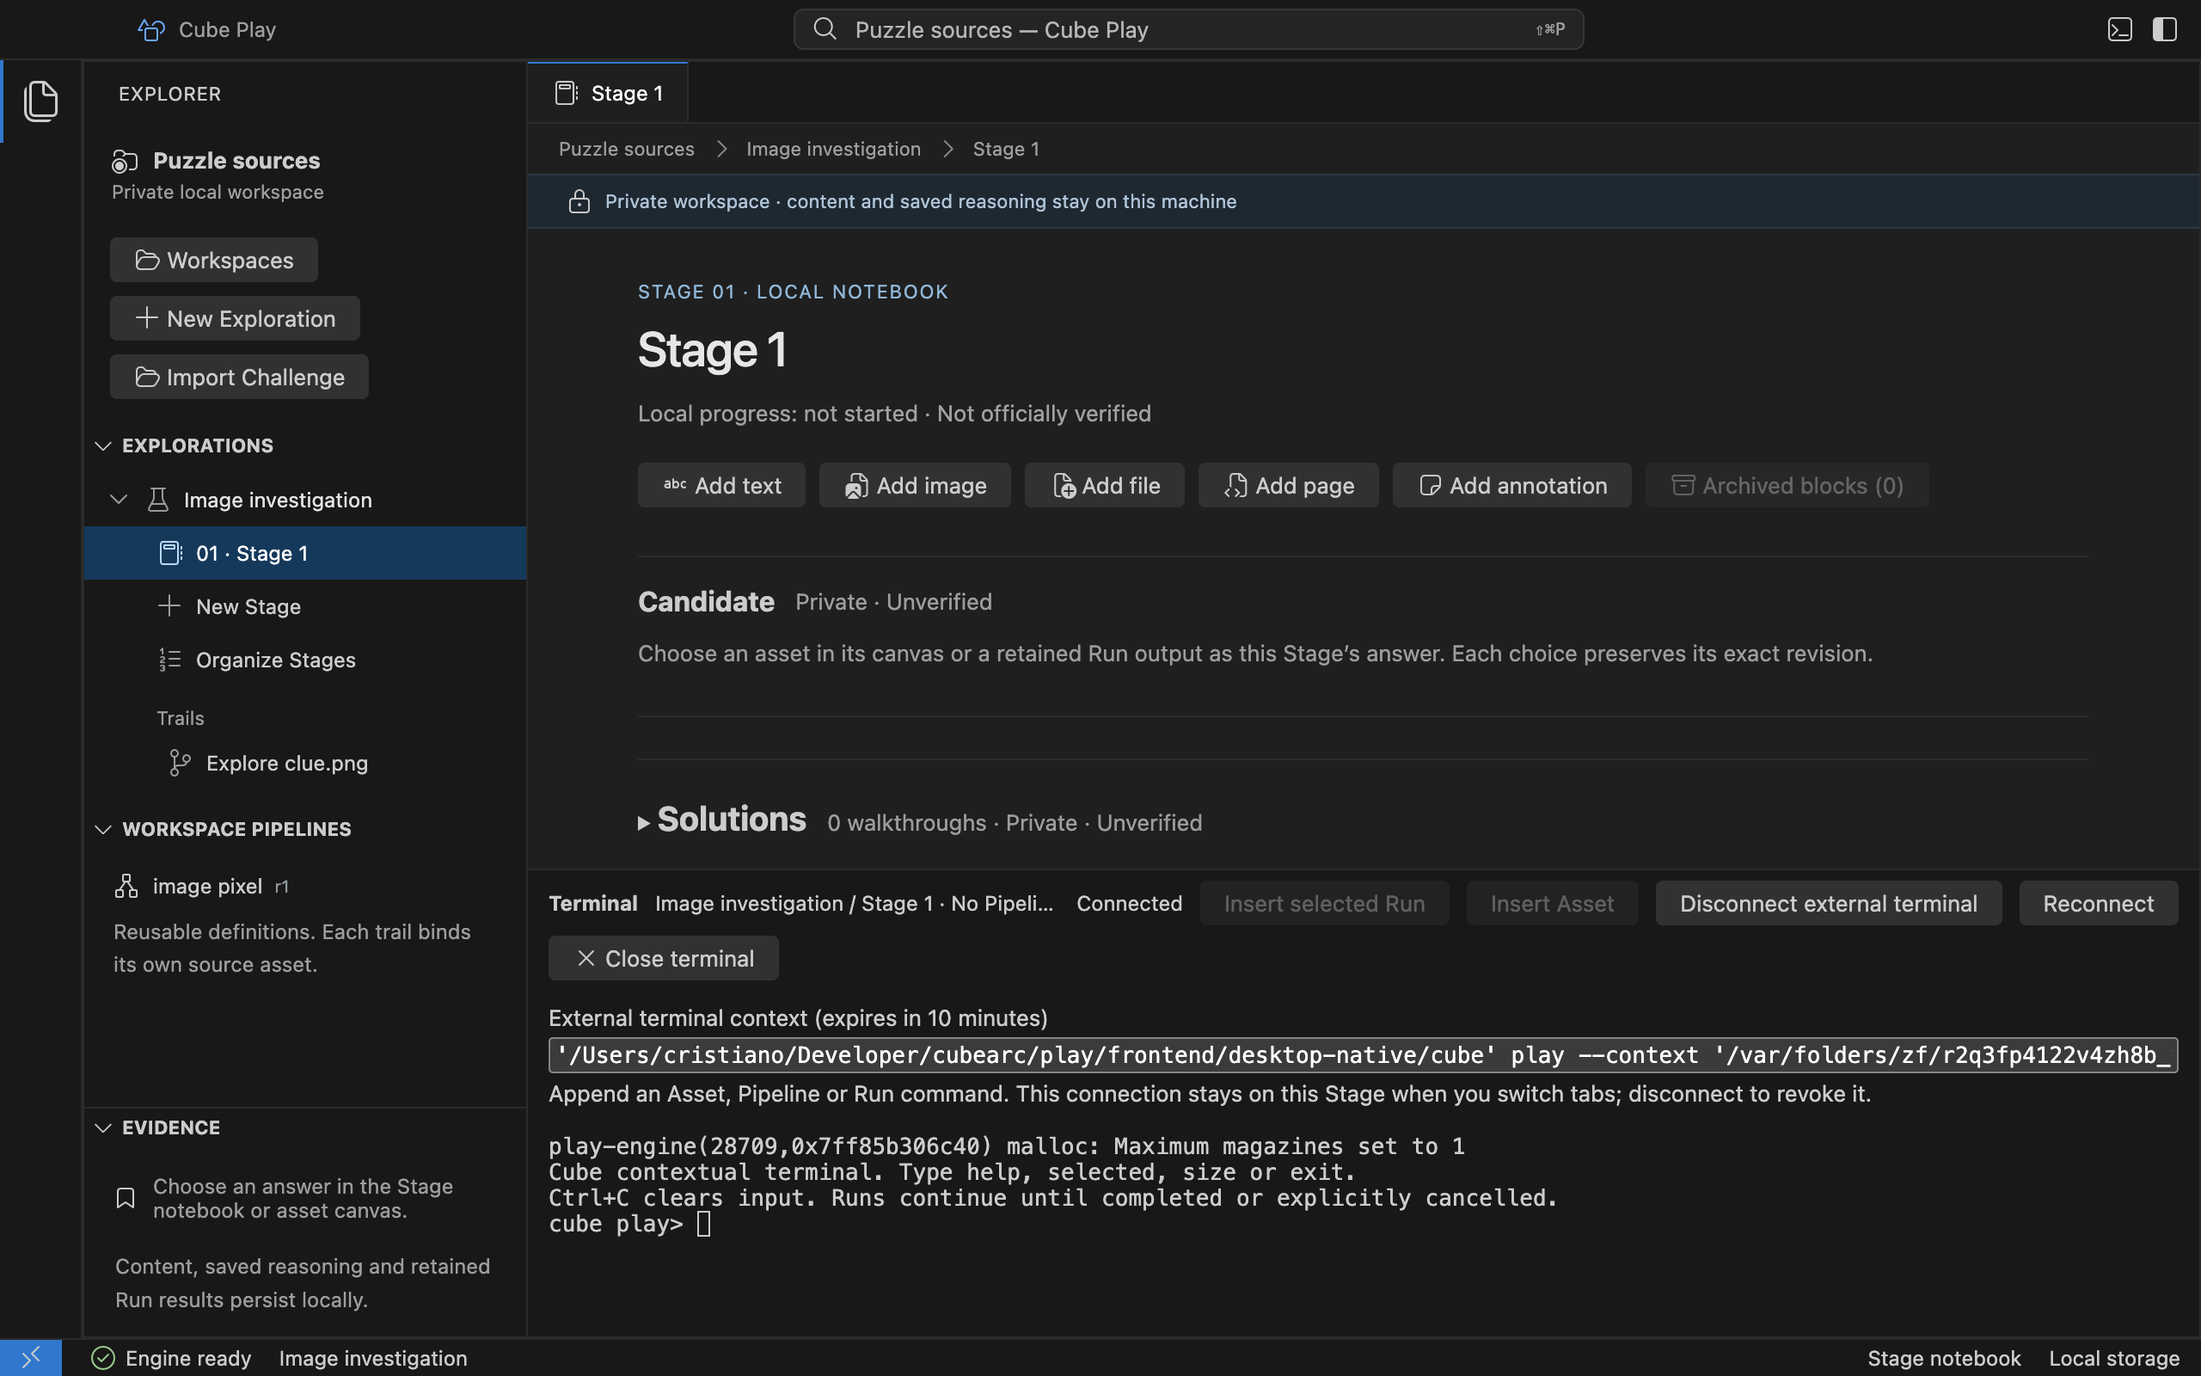
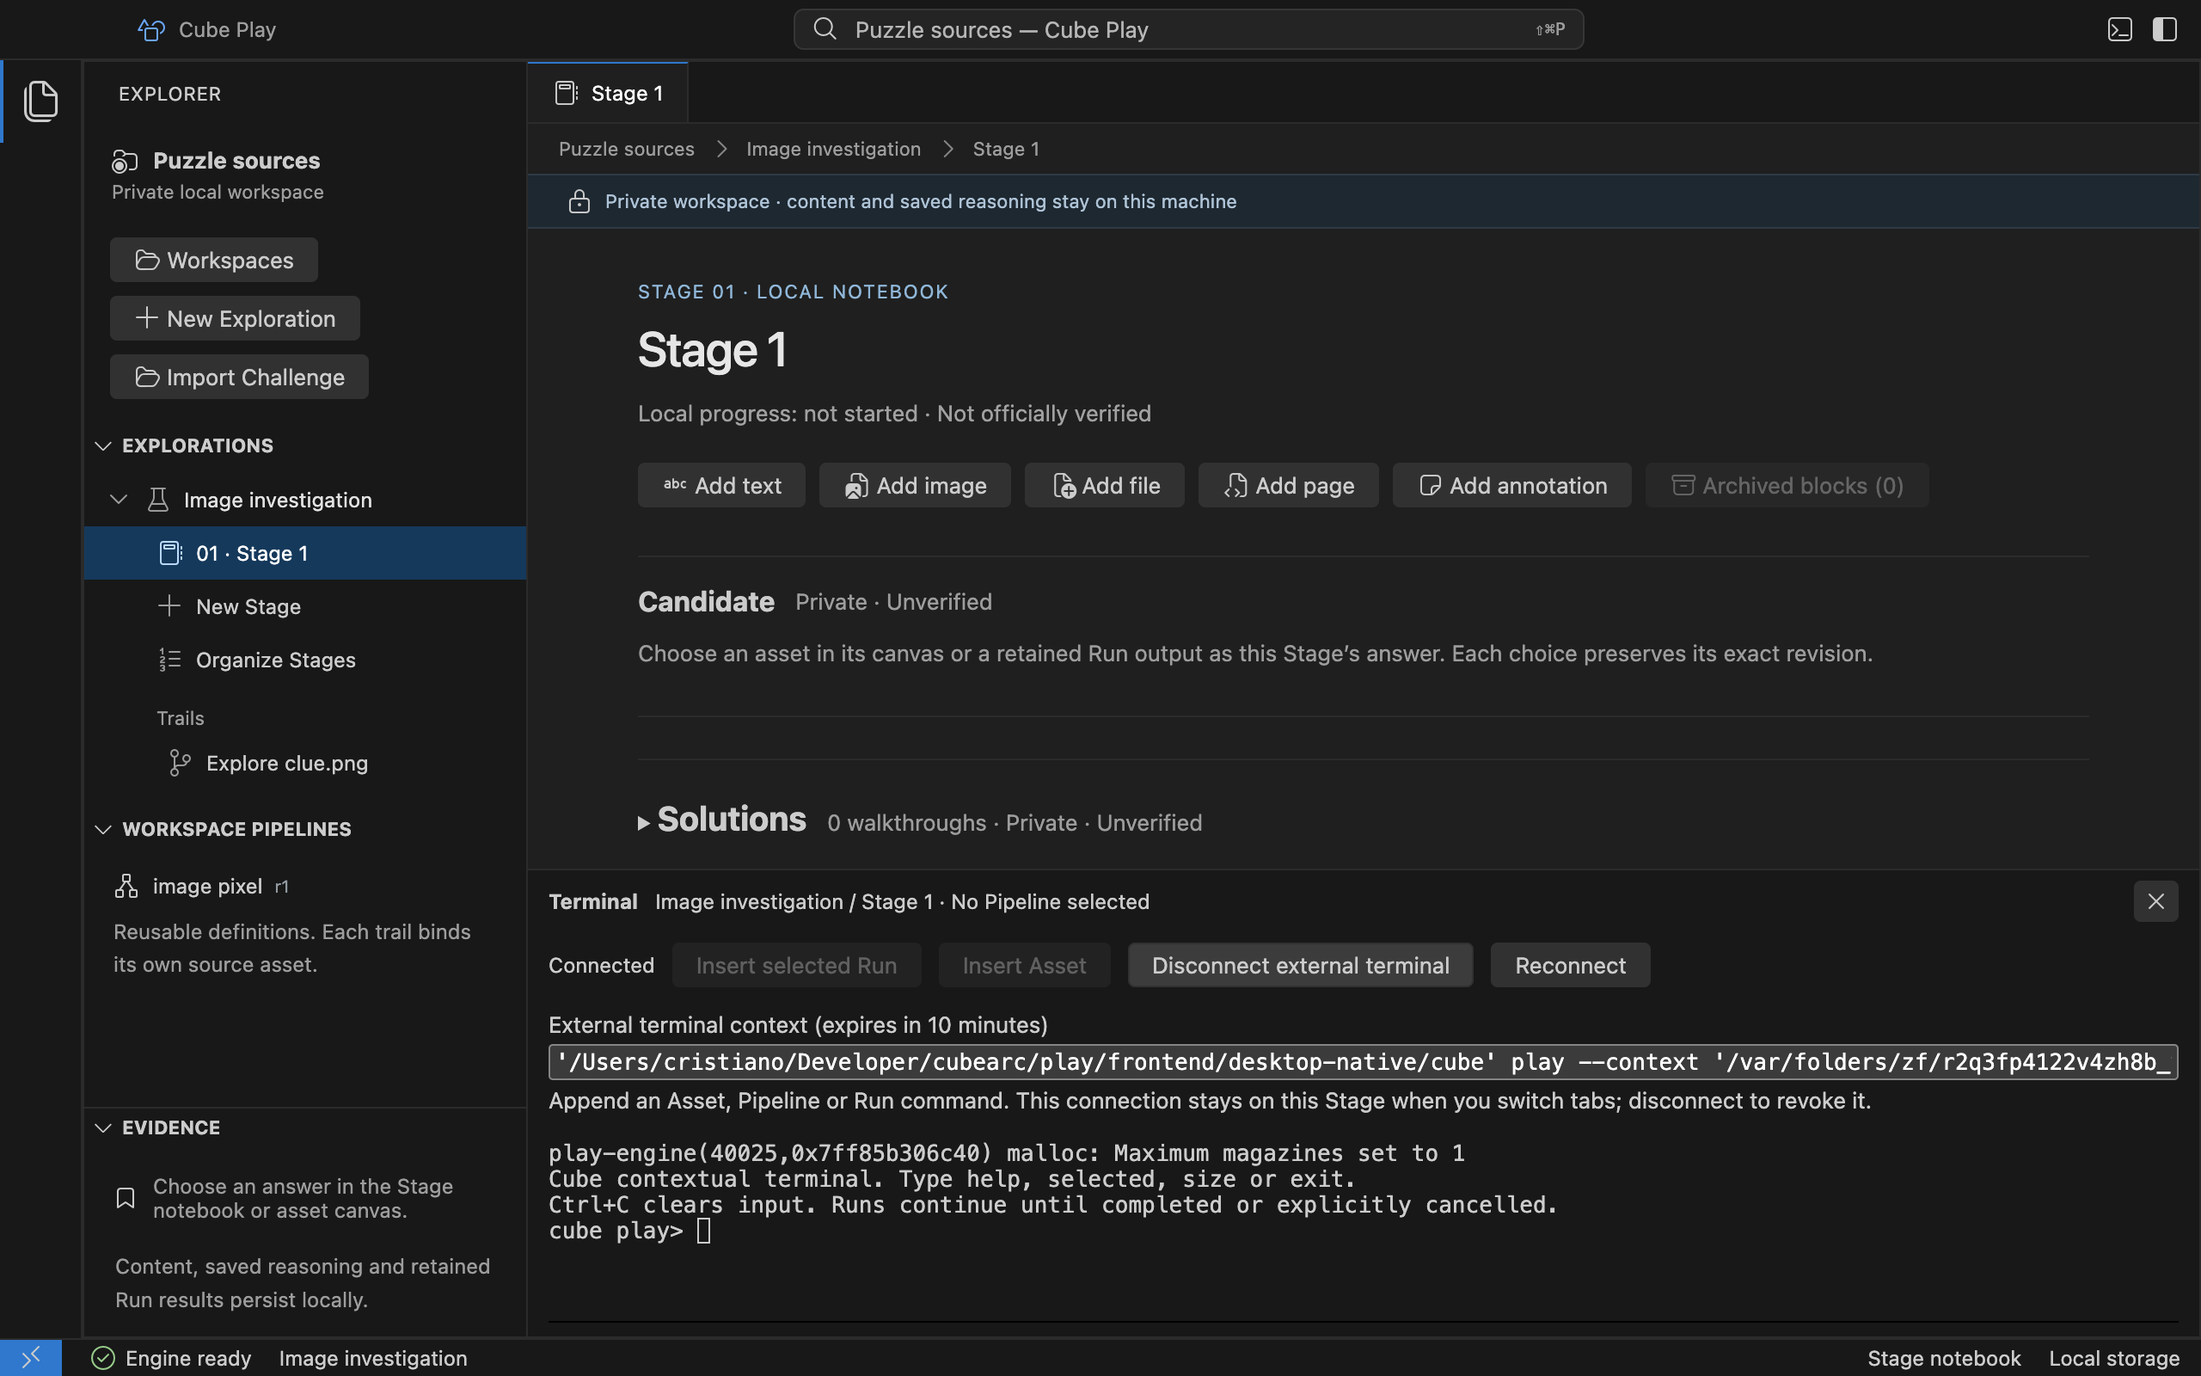
fix(desktop): keep terminal controls visible at high zoom
Give notebook/canvas content one scroll owner, including the wrapping privacy notice. Keep Close in the terminal header and secondary actions in a bounded scrolling body, preserving context-specific scroll resets.

Add the minimum-window 200% native regression and require the full Close target in view. All 29 renderer journeys and original coverage gates pass; actual packaged terminal and external CLI flows pass. Refresh the reviewed terminal capture and guide.

Changed region(s): [[0.25, 0.625, 1.0, 0.9062], [0.6562, 0.8438, 0.6875, 0.875]]

diff --git a/frontend/desktop-renderer-src/Workbench.tsx b/frontend/desktop-renderer-src/Workbench.tsx
@@ -509,65 +509,70 @@ export function Workbench() {
                         </>
                       ) : null}
                     </div>
-                    <div className="workspace-context">
-                      <VscodeIcon name="lock" />
-                      Private workspace · content and saved reasoning stay on
-                      this machine
+                    <div
+                      className="scroll-surface"
+                      key={`${contextKey}:${activeTab}`}
+                    >
+                      <div className="workspace-context">
+                        <VscodeIcon name="lock" />
+                        Private workspace · content and saved reasoning stay on
+                        this machine
+                      </div>
+                      {activeTrail ? (
+                        <AssetCanvas
+                          key={activeTrail.id}
+                          trail={activeTrail}
+                          editTrail={() => {
+                            state.clearError();
+                            setEditingTrail(activeTrail);
+                          }}
+                          editPipeline={(mode) => {
+                            state.clearError();
+                            setEditingPipeline({
+                              trail: activeTrail,
+                              mode,
+                              pipeline:
+                                mode === "revise"
+                                  ? (workspace?.pipelines.find(
+                                      (p) => p.id === activeTrail.pipelineId,
+                                    ) ?? activeTrail.pipeline)
+                                  : activeTrail.pipeline,
+                            });
+                          }}
+                          executions={executions}
+                          openSourceRun={openSourceRun}
+                        />
+                      ) : (
+                        <Notebook
+                          exploration={exploration}
+                          executions={executions}
+                          notes={{
+                            state: state.noteState,
+                            edit: state.editNote,
+                            save: state.saveNote,
+                            discard: state.discardNote,
+                          }}
+                          busy={state.busy}
+                          addText={() => setDialog("text")}
+                          addImage={() => setDialog("image")}
+                          addFile={() => void state.importFile()}
+                          addAnnotation={() => setDialog("annotation")}
+                          addPage={() => setDialog("page")}
+                          openTrail={openTrail}
+                          editText={editText}
+                          reorderBlocks={state.reorderBlocks}
+                          duplicateBlock={state.duplicateBlock}
+                          setArchived={state.setArchived}
+                          openSourceRun={openSourceRun}
+                          focusBlockId={
+                            pendingFocus?.stageId === exploration.stage.id
+                              ? pendingFocus.blockId
+                              : null
+                          }
+                          onFocusHandled={focusHandled}
+                        />
+                      )}
                     </div>
-                    {activeTrail ? (
-                      <AssetCanvas
-                        key={activeTrail.id}
-                        trail={activeTrail}
-                        editTrail={() => {
-                          state.clearError();
-                          setEditingTrail(activeTrail);
-                        }}
-                        editPipeline={(mode) => {
-                          state.clearError();
-                          setEditingPipeline({
-                            trail: activeTrail,
-                            mode,
-                            pipeline:
-                              mode === "revise"
-                                ? (workspace?.pipelines.find(
-                                    (p) => p.id === activeTrail.pipelineId,
-                                  ) ?? activeTrail.pipeline)
-                                : activeTrail.pipeline,
-                          });
-                        }}
-                        executions={executions}
-                        openSourceRun={openSourceRun}
-                      />
-                    ) : (
-                      <Notebook
-                        exploration={exploration}
-                        executions={executions}
-                        notes={{
-                          state: state.noteState,
-                          edit: state.editNote,
-                          save: state.saveNote,
-                          discard: state.discardNote,
-                        }}
-                        busy={state.busy}
-                        addText={() => setDialog("text")}
-                        addImage={() => setDialog("image")}
-                        addFile={() => void state.importFile()}
-                        addAnnotation={() => setDialog("annotation")}
-                        addPage={() => setDialog("page")}
-                        openTrail={openTrail}
-                        editText={editText}
-                        reorderBlocks={state.reorderBlocks}
-                        duplicateBlock={state.duplicateBlock}
-                        setArchived={state.setArchived}
-                        openSourceRun={openSourceRun}
-                        focusBlockId={
-                          pendingFocus?.stageId === exploration.stage.id
-                            ? pendingFocus.blockId
-                            : null
-                        }
-                        onFocusHandled={focusHandled}
-                      />
-                    )}
                   </>
                 )}
                 {terminal && exploration && !welcome ? (

diff --git a/frontend/desktop-renderer-src/ContextTerminal.tsx b/frontend/desktop-renderer-src/ContextTerminal.tsx
@@ -251,74 +251,82 @@ export function ContextTerminal({
   }, [binding]);
   return (
     <section className="context-terminal" aria-label="Cube terminal">
-      <div className="terminal-toolbar">
+      <div className="terminal-heading">
         <strong>Terminal</strong>
         <span className="terminal-context" title={binding.title}>
           {binding.title}
         </span>
-        <span role="status">{status}</span>
         <VscodeButton
           secondary
-          disabled={!ready || !binding.selection}
-          onClick={() => insert.current("selected")}
-        >
-          Insert selected Run
-        </VscodeButton>
-        <VscodeButton
-          secondary
-          disabled={!ready || !binding.assetCommand}
-          onClick={() =>
-            binding.assetCommand && insert.current(binding.assetCommand)
-          }
-        >
-          Insert Asset
-        </VscodeButton>
-        <VscodeButton
-          secondary
-          disabled={attaching}
-          onClick={() => void attach()}
-        >
-          {attachment
-            ? "Disconnect external terminal"
-            : "Use external terminal"}
-        </VscodeButton>
-        <VscodeButton secondary onClick={onReconnect}>
-          Reconnect
-        </VscodeButton>
-        <VscodeButton secondary icon="close" onClick={onClose}>
-          Close terminal
-        </VscodeButton>
+          icon="close"
+          aria-label="Close terminal"
+          title="Close terminal"
+          onClick={onClose}
+        />
       </div>
-      {attachment ? (
-        <div className="external-terminal">
-          <label
-            className="external-terminal-label"
-            htmlFor="external-context-command"
+      <div className="terminal-content">
+        <div className="terminal-toolbar">
+          <span role="status">{status}</span>
+          <VscodeButton
+            secondary
+            disabled={!ready || !binding.selection}
+            onClick={() => insert.current("selected")}
           >
-            External terminal context (expires in 10 minutes)
-          </label>
-          <input
-            id="external-context-command"
-            readOnly
-            value={attachment.prefix}
-          />
-          <p>
-            Append an Asset, Pipeline or Run command. This connection stays on
-            this Stage when you switch tabs; disconnect to revoke it.
-          </p>
+            Insert selected Run
+          </VscodeButton>
+          <VscodeButton
+            secondary
+            disabled={!ready || !binding.assetCommand}
+            onClick={() =>
+              binding.assetCommand && insert.current(binding.assetCommand)
+            }
+          >
+            Insert Asset
+          </VscodeButton>
+          <VscodeButton
+            secondary
+            disabled={attaching}
+            onClick={() => void attach()}
+          >
+            {attachment
+              ? "Disconnect external terminal"
+              : "Use external terminal"}
+          </VscodeButton>
+          <VscodeButton secondary onClick={onReconnect}>
+            Reconnect
+          </VscodeButton>
         </div>
-      ) : null}
-      {attachmentError ? (
-        <p role="alert" className="terminal-error">
-          {attachmentError}
-        </p>
-      ) : null}
-      {error ? (
-        <p role="alert" className="terminal-error">
-          {error}
-        </p>
-      ) : null}
-      <div className="terminal-surface" ref={output} />
+        {attachment ? (
+          <div className="external-terminal">
+            <label
+              className="external-terminal-label"
+              htmlFor="external-context-command"
+            >
+              External terminal context (expires in 10 minutes)
+            </label>
+            <input
+              id="external-context-command"
+              readOnly
+              value={attachment.prefix}
+            />
+            <p>
+              Append an Asset, Pipeline or Run command. This connection stays on
+              this Stage when you switch tabs; disconnect to revoke it.
+            </p>
+          </div>
+        ) : null}
+        {attachmentError ? (
+          <p role="alert" className="terminal-error">
+            {attachmentError}
+          </p>
+        ) : null}
+        {error ? (
+          <p role="alert" className="terminal-error">
+            {error}
+          </p>
+        ) : null}
+        <div className="terminal-surface" ref={output} />
+      </div>
     </section>
   );
 }

diff --git a/frontend/desktop/desktop.e2e.ts b/frontend/desktop/desktop.e2e.ts
@@ -261,6 +261,7 @@ test("native terminal connects on supported platforms and refuses unavailable po
     for (const settings of [
       { width: 800, height: 540, zoom: 1 },
       { width: 1280, height: 800, zoom: 2 },
+      { width: 800, height: 540, zoom: 2 },
     ]) {
       await application.evaluate(({ BrowserWindow }, s) => {
         const w = BrowserWindow.getAllWindows().find((w) => w.isVisible());
@@ -278,7 +279,33 @@ test("native terminal connects on supported platforms and refuses unavailable po
         .toEqual({ shell: false, panel: false });
       await expect(
         panel.getByRole("button", { name: "Close terminal", exact: true }),
-      ).toBeInViewport();
+      )
+        .toBeInViewport({ ratio: 1 })
+        .catch(async (error) => {
+          console.error(
+            "terminal_reflow",
+            await panel.evaluate((element) => {
+              const box = (node: Element | null) =>
+                node?.getBoundingClientRect().toJSON();
+              return {
+                viewport: { width: innerWidth, height: innerHeight },
+                panel: box(element),
+                toolbar: box(element.querySelector(".terminal-toolbar")),
+                close: box(
+                  element.querySelector('[aria-label="Close terminal"]'),
+                ),
+              };
+            }),
+          );
+          await capture(
+            application,
+            `native-terminal-reflow-${settings.width}-${settings.zoom}`,
+            false,
+          );
+          throw error;
+        });
+      if (settings.width === 800 && settings.zoom === 2)
+        await capture(application, "native-terminal-reflow-minimum", false);
     }
     await panel.getByRole("button", { name: "Reconnect", exact: true }).click();
     await expect(panel.getByRole("status")).toHaveText("Connected");

diff --git a/frontend/desktop-renderer-src/style.css b/frontend/desktop-renderer-src/style.css
@@ -1134,6 +1134,27 @@ h1 {
   background: var(--vscode-panel-background);
   border-top: 1px solid var(--separator-border);
 }
+.terminal-heading {
+  display: flex;
+  align-items: center;
+  flex: 0 0 auto;
+  min-width: 0;
+  gap: 10px;
+  padding: 6px 12px;
+  font-size: 12px;
+}
+.terminal-heading strong,
+.terminal-heading vscode-button {
+  flex-shrink: 0;
+}
+.terminal-content {
+  display: flex;
+  flex-direction: column;
+  flex: 1;
+  min-height: 0;
+  min-width: 0;
+  overflow: auto;
+}
 .terminal-toolbar {
   display: flex;
   align-items: center;
@@ -1141,16 +1162,25 @@ h1 {
   gap: 6px 10px;
   padding: 6px 12px;
   font-size: 12px;
+  flex-shrink: 0;
+}
+.terminal-toolbar vscode-button {
+  min-width: 0;
+  max-width: 100%;
+}
+.terminal-toolbar vscode-button::part(base) {
+  white-space: normal;
+  overflow-wrap: anywhere;
 }
 .terminal-context {
   flex: 1;
-  min-width: 100px;
+  min-width: 0;
   overflow: hidden;
   text-overflow: ellipsis;
   white-space: nowrap;
 }
 .terminal-surface {
-  flex: 1;
+  flex: 1 0 80px;
   min-height: 0;
   min-width: 0;
   overflow: hidden;

diff --git a/frontend/desktop-renderer-src/AssetCanvas.tsx b/frontend/desktop-renderer-src/AssetCanvas.tsx
@@ -29,7 +29,7 @@ export function AssetCanvas({
   const text = trail.source.content.kind === "text";
   const page = trail.source.content.kind === "page";
   return (
-    <section className="asset-canvas scroll-surface" aria-label="Trail canvas">
+    <section className="asset-canvas" aria-label="Trail canvas">
       <header className="document-heading">
         <div className="eyebrow">Trail · Asset exploration</div>
         <h1>{trail.title}</h1>

diff --git a/frontend/desktop-renderer-src/Notebook.tsx b/frontend/desktop-renderer-src/Notebook.tsx
@@ -180,7 +180,7 @@ export function Notebook({
     }
   };
   return (
-    <section className="notebook scroll-surface" aria-label="Stage notebook">
+    <section className="notebook" aria-label="Stage notebook">
       <header className="document-heading">
         <div className="eyebrow">
           {exploration.stage.archived

diff --git a/docs/terminal.md b/docs/terminal.md
@@ -50,7 +50,8 @@ run cancel ID
 Replace IDs with the relevant local identities. Asset reads stay inside the
 attached Stage; Pipeline reads use exact Workspace revisions. `size` reports
 actual PTY columns and rows, including after resizing the window. `exit` or
-**Close terminal** ends the session.
+the **Close terminal** (×) control in the panel header ends the session. In a
+narrow window, scroll inside the terminal to reach the remaining actions.
 
 Ctrl+C clears the input draft. To cancel accepted work, use `run cancel ID` or the
 cell's cancellation action. Closing the terminal does not cancel a Run; the engine
